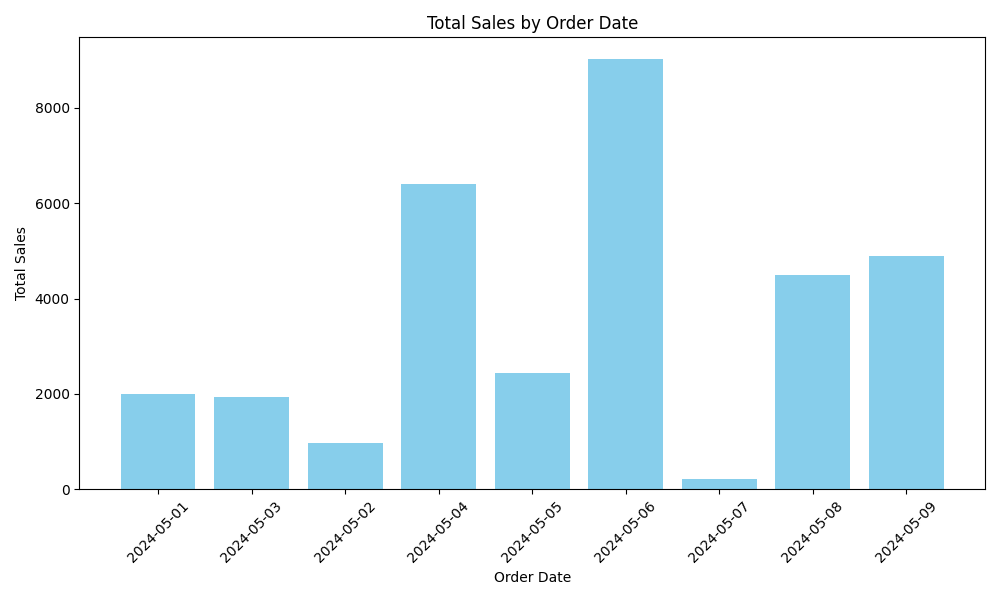
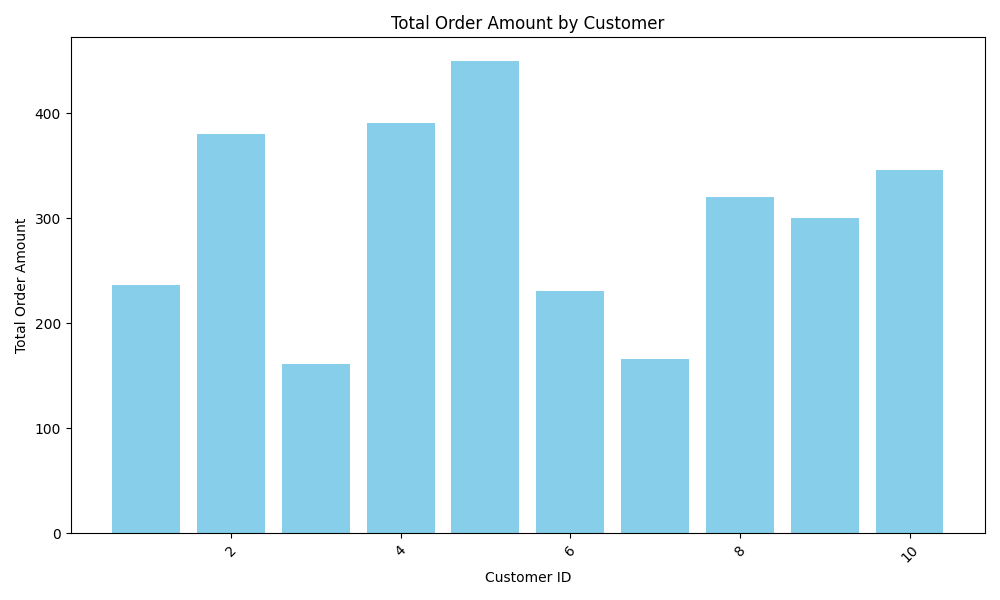
new test case

diff --git a/backend/generated_code.py b/backend/generated_code.py
@@ -1,24 +1,17 @@
 import pandas as pd
 import matplotlib.pyplot as plt
 
-order_details_df = pd.read_csv("C:\\Users\\Tomta\\Desktop\\AIDashboard_2\\AIDashboard\\backend\\TrainingTable\\OrderDetails.csv")
-
-# Calculate total sales per order
-order_details_df['TotalSales'] = order_details_df['Quantity'] * order_details_df['UnitPrice']
-
-# Group by order date and sum total sales
-total_sales_by_date = order_details_df.groupby('OrderID')['TotalSales'].sum().reset_index()
-
-# Merge with Orders.csv to get order dates
 orders_df = pd.read_csv("C:\\Users\\Tomta\\Desktop\\AIDashboard_2\\AIDashboard\\backend\\TrainingTable\\Orders.csv")
-merged_df = pd.merge(total_sales_by_date, orders_df, on='OrderID')
 
-# Plot the bar chart
+# Group by CustomerID and sum the TotalAmount
+customer_total_amount = orders_df.groupby('CustomerID')['TotalAmount'].sum().reset_index()
+
+# Create the bar chart
 plt.figure(figsize=(10, 6))
-plt.bar(merged_df['OrderDate'], merged_df['TotalSales'], color='skyblue')
-plt.xlabel('Order Date')
-plt.ylabel('Total Sales')
-plt.title('Total Sales by Order Date')
+plt.bar(customer_total_amount['CustomerID'], customer_total_amount['TotalAmount'], color='skyblue')
+plt.xlabel('Customer ID')
+plt.ylabel('Total Order Amount')
+plt.title('Total Order Amount by Customer')
 plt.xticks(rotation=45)
 plt.tight_layout()
 plt.savefig('chart.png')
